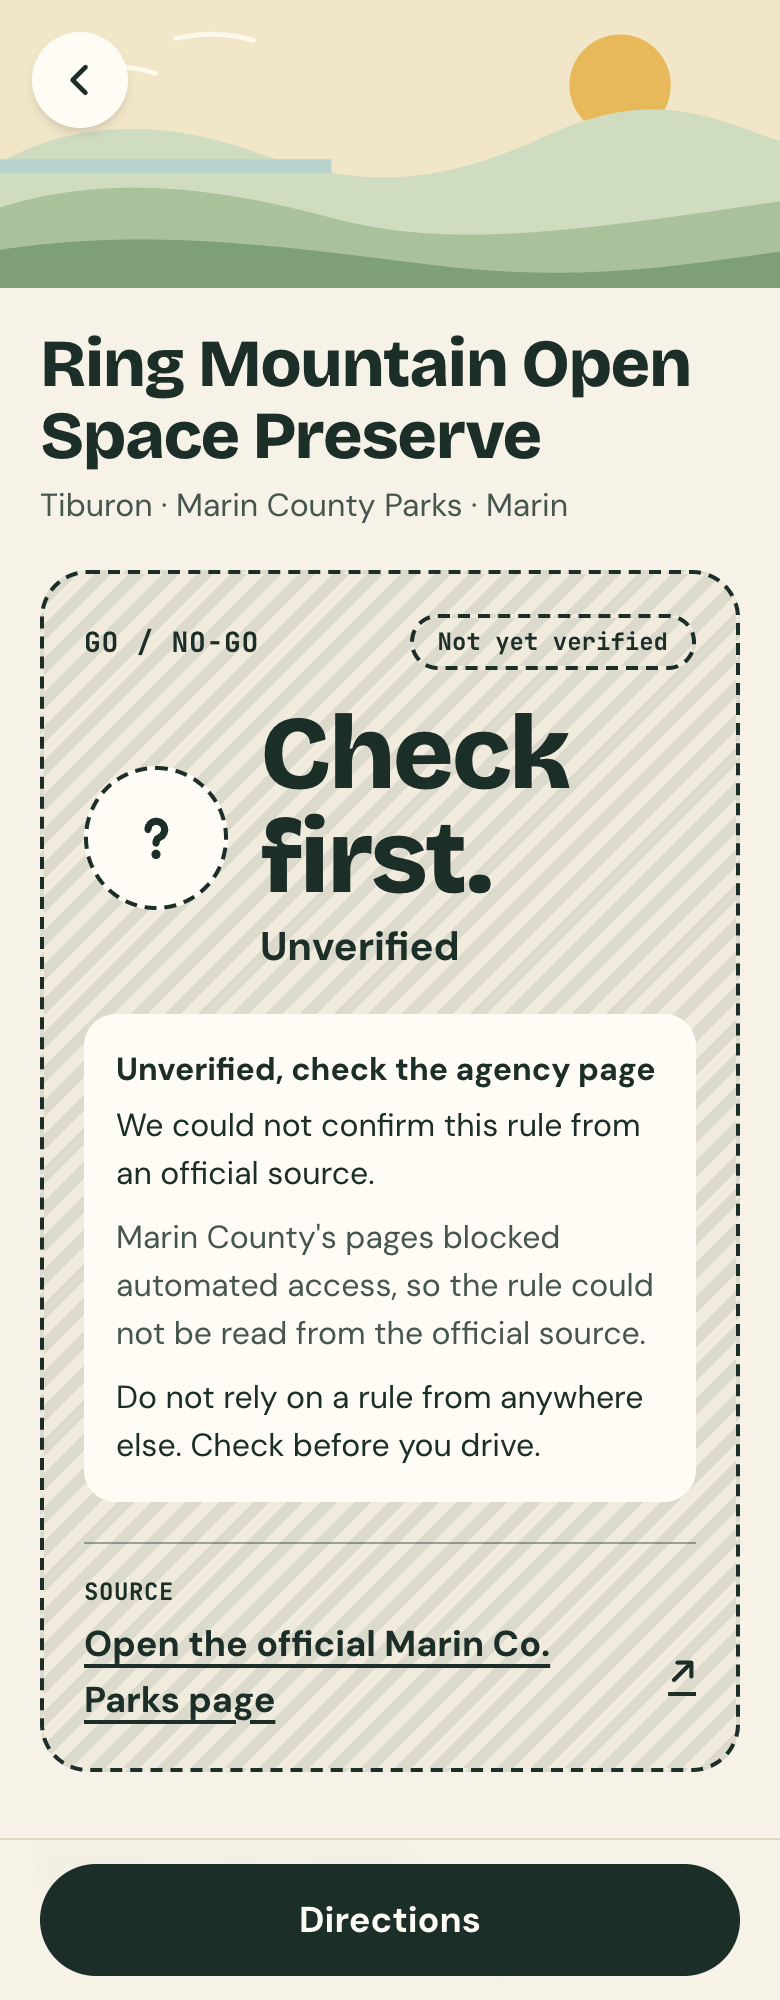
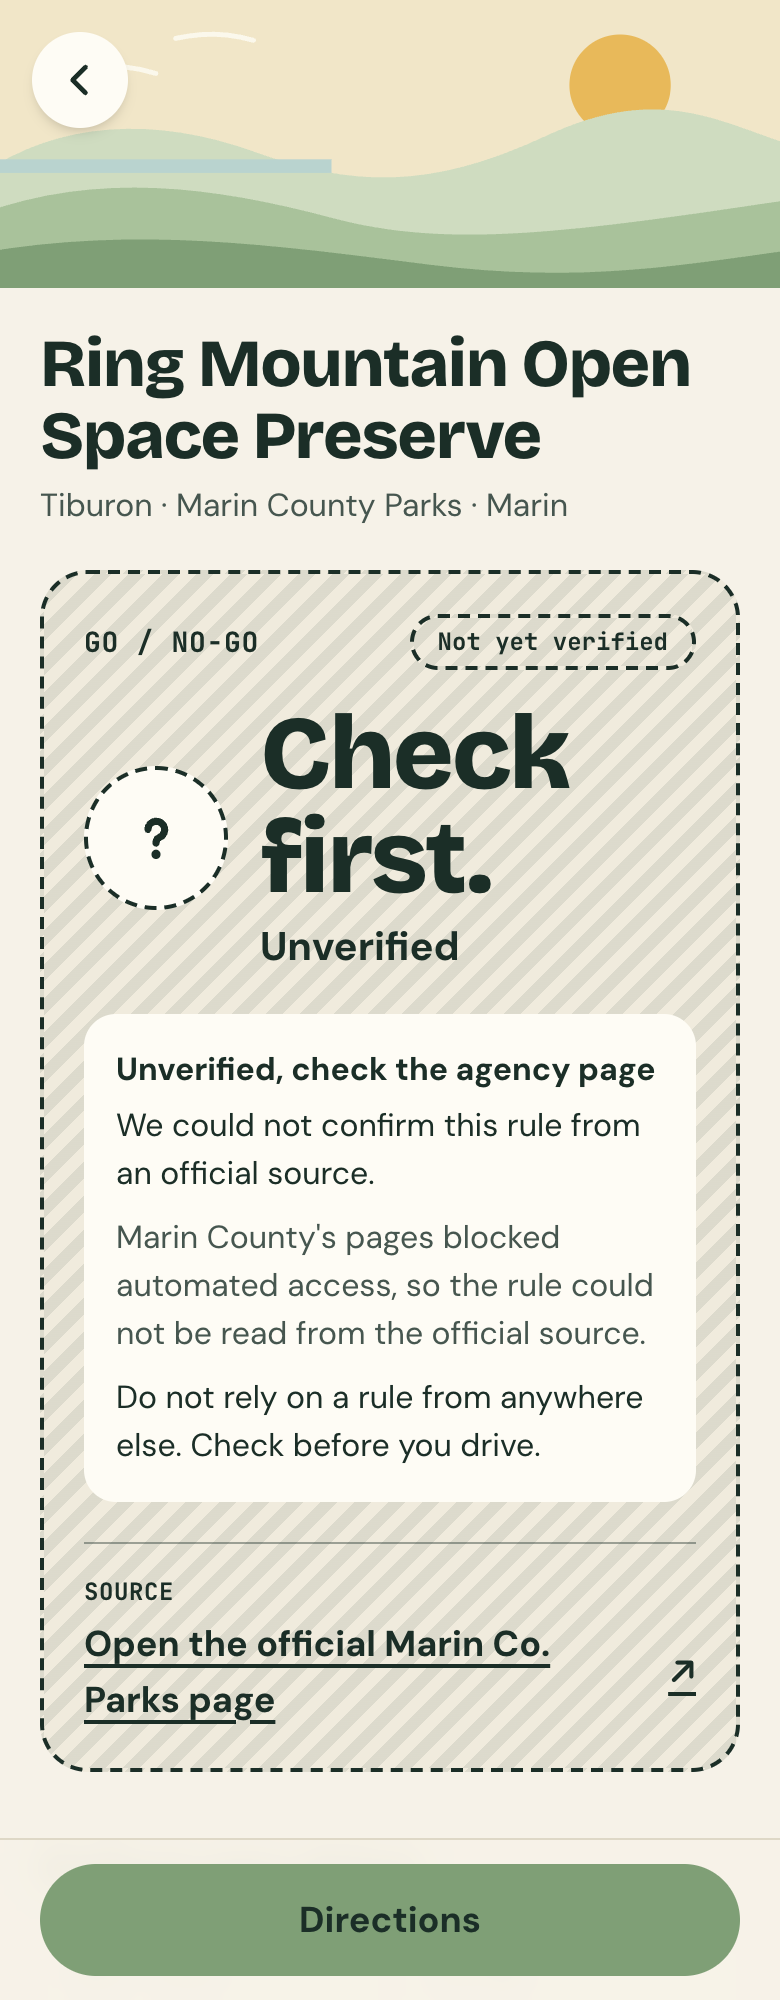
Apply the new sage button color from Figma
Adds a color-button token (#7f9f76, matching Figma's color/button) and uses it for
every primary and outline button. Labels on it are ink, not cream: cream on sage is
2.87:1 and fails AA, ink is 4.86:1. Tests guard the token and the text color.
README screenshots retaken.

Changed region(s): [[0.0308, 0.93, 0.9538, 0.992]]

diff --git a/src/lib/contrast.test.ts b/src/lib/contrast.test.ts
@@ -1,4 +1,5 @@
-import { readFileSync } from 'node:fs'
+import { readdirSync, readFileSync, statSync } from 'node:fs'
+import { join } from 'node:path'
 import { COLORS, STATUS_COLORS } from './colors.ts'
 import { contrastRatio } from './contrast.ts'
 
@@ -31,6 +32,7 @@ describe('WCAG AA contrast', () => {
     ['ink on amber (recheck stamp)', COLORS.ink, COLORS.amber],
     ['ink on amber-tint', COLORS.ink, COLORS.amberTint],
     ['ink on sand (stale stamp)', COLORS.ink, COLORS.sand],
+    ['ink on button (sage)', COLORS.ink, COLORS.button],
   ])('%s', (_n, fg, bg) => {
     expect(contrastRatio(fg, bg)).toBeGreaterThanOrEqual(AA_TEXT)
   })
@@ -45,6 +47,7 @@ describe('tokens', () => {
       ['ink', COLORS.ink],
       ['ink-soft', COLORS.inkSoft],
       ['sand', COLORS.sand],
+      ['button', COLORS.button],
       ['teal', COLORS.teal],
       ['teal-deep', COLORS.tealDeep],
       ['teal-tint', COLORS.tealTint],
@@ -55,5 +58,30 @@ describe('tokens', () => {
     for (const [name, hex] of pairs) {
       expect(css).toContain(`--color-${name}: ${hex};`)
     }
+  })
+})
+
+describe('buttons', () => {
+  test('cream text on the sage button fill would fail AA, so it must never be used', () => {
+    expect(contrastRatio(COLORS.card, COLORS.button)).toBeLessThan(4.5)
+  })
+
+  test('no component puts text-card on bg-button', () => {
+    const files: string[] = []
+    const walk = (dir: string) => {
+      for (const name of readdirSync(dir)) {
+        const full = join(dir, name)
+        if (statSync(full).isDirectory()) walk(full)
+        else if (/\.tsx$/.test(name) && !/\.test\./.test(name)) files.push(full)
+      }
+    }
+    walk('src')
+    const offenders = files.flatMap((f) =>
+      readFileSync(f, 'utf8')
+        .split('\n')
+        .map((line, i) => ({ f, i: i + 1, line }))
+        .filter(({ line }) => line.includes('bg-button') && line.includes('text-card')),
+    )
+    expect(offenders.map((o) => `${o.f}:${o.i}`)).toEqual([])
   })
 })

diff --git a/src/pages/ResetPassword.tsx b/src/pages/ResetPassword.tsx
@@ -89,7 +89,7 @@ export default function ResetPassword() {
           type="button"
           onClick={() => void confirmLink()}
           disabled={busy}
-          className="mt-6 min-h-14 w-full rounded-full bg-ink px-6 text-lg font-bold text-card disabled:opacity-60"
+          className="mt-6 min-h-14 w-full rounded-full bg-button px-6 text-lg font-bold text-ink disabled:opacity-60"
         >
           {busy ? 'Checking…' : 'Continue'}
         </button>
@@ -107,7 +107,7 @@ export default function ResetPassword() {
         </p>
         <Link
           to="/forgot-password"
-          className="mt-6 flex min-h-14 items-center justify-center rounded-full bg-ink px-6 text-lg font-bold text-card no-underline"
+          className="mt-6 flex min-h-14 items-center justify-center rounded-full bg-button px-6 text-lg font-bold text-ink no-underline"
         >
           Request a new link
         </Link>
@@ -123,7 +123,7 @@ export default function ResetPassword() {
         <button
           type="button"
           onClick={() => navigate('/', { replace: true })}
-          className="mt-6 min-h-14 w-full rounded-full bg-ink px-6 text-lg font-bold text-card"
+          className="mt-6 min-h-14 w-full rounded-full bg-button px-6 text-lg font-bold text-ink"
         >
           Continue to the app
         </button>
@@ -176,7 +176,7 @@ export default function ResetPassword() {
         <button
           type="submit"
           disabled={busy}
-          className="min-h-14 w-full rounded-full bg-ink px-6 text-lg font-bold text-card disabled:opacity-60"
+          className="min-h-14 w-full rounded-full bg-button px-6 text-lg font-bold text-ink disabled:opacity-60"
         >
           {busy ? 'Saving…' : 'Save new password'}
         </button>

diff --git a/src/pages/Admin.tsx b/src/pages/Admin.tsx
@@ -74,7 +74,7 @@ function Gate({ onUnlock }: { onUnlock: () => void }) {
           )}
           <button
             type="submit"
-            className="mt-4 min-h-14 w-full rounded-full bg-ink px-6 text-lg font-bold text-card"
+            className="mt-4 min-h-14 w-full rounded-full bg-button px-6 text-lg font-bold text-ink"
           >
             Unlock
           </button>
@@ -123,7 +123,7 @@ function Panel({
           <button
             type="button"
             onClick={onLock}
-            className="min-h-12 rounded-full border-2 border-ink px-4 font-bold"
+            className="min-h-12 rounded-full border-2 border-ink bg-button px-4 font-bold"
           >
             {lockLabel}
           </button>
@@ -196,14 +196,14 @@ function SupabaseAdmin() {
       <div className="mt-4 flex gap-3">
         <Link
           to="/"
-          className="flex min-h-12 items-center rounded-full bg-ink px-6 font-bold text-card no-underline"
+          className="flex min-h-12 items-center rounded-full bg-button px-6 font-bold text-ink no-underline"
         >
           Back to the app
         </Link>
         <button
           type="button"
           onClick={() => void signOut()}
-          className="min-h-12 rounded-full border-2 border-ink px-6 font-bold"
+          className="min-h-12 rounded-full border-2 border-ink bg-button px-6 font-bold"
         >
           Sign out
         </button>

diff --git a/src/pages/Place.tsx b/src/pages/Place.tsx
@@ -230,7 +230,7 @@ function PlaceView({ slug }: { slug: string }) {
           <button
             type="button"
             onClick={() => setReportOpen(true)}
-            className="mt-4 flex min-h-14 w-full items-center justify-center gap-2 rounded-full border-2 border-ink bg-card text-lg font-bold"
+            className="mt-4 flex min-h-14 w-full items-center justify-center gap-2 rounded-full border-2 border-ink bg-button text-lg font-bold"
           >
             <svg
               width="20"
@@ -270,7 +270,7 @@ function PlaceView({ slug }: { slug: string }) {
             href={`https://www.google.com/maps/dir/?api=1&destination=${p.lat},${p.lng}`}
             target="_blank"
             rel="noopener noreferrer"
-            className="flex min-h-14 flex-1 items-center justify-center rounded-full bg-ink px-6 text-lg font-bold text-card no-underline"
+            className="flex min-h-14 flex-1 items-center justify-center rounded-full bg-button px-6 text-lg font-bold text-ink no-underline"
           >
             Directions<span className="sr-only"> (opens in a new tab)</span>
           </a>

diff --git a/src/pages/AuthPage.tsx b/src/pages/AuthPage.tsx
@@ -91,7 +91,7 @@ export default function AuthPage({ mode }: { mode: Mode }) {
             <Link
               to="/login"
               replace
-              className="mt-6 flex min-h-14 items-center justify-center rounded-full bg-ink px-6 text-lg font-bold text-card no-underline"
+              className="mt-6 flex min-h-14 items-center justify-center rounded-full bg-button px-6 text-lg font-bold text-ink no-underline"
             >
               Go to log in
             </Link>
@@ -167,7 +167,7 @@ export default function AuthPage({ mode }: { mode: Mode }) {
               <button
                 type="submit"
                 disabled={busy}
-                className="min-h-14 w-full rounded-full bg-ink px-6 text-lg font-bold text-card disabled:opacity-60"
+                className="min-h-14 w-full rounded-full bg-button px-6 text-lg font-bold text-ink disabled:opacity-60"
               >
                 {busy ? copy.busy : copy.submit}
               </button>

diff --git a/src/components/ReportSheet.tsx b/src/components/ReportSheet.tsx
@@ -96,7 +96,7 @@ export default function ReportSheet({ place, open, onClose, onSubmitted }: Props
             <button
               type="button"
               onClick={onClose}
-              className="mt-6 min-h-14 w-full rounded-full bg-ink px-6 text-lg font-bold text-card"
+              className="mt-6 min-h-14 w-full rounded-full bg-button px-6 text-lg font-bold text-ink"
             >
               Done
             </button>
@@ -194,7 +194,7 @@ export default function ReportSheet({ place, open, onClose, onSubmitted }: Props
             <button
               type="submit"
               disabled={phase === 'sending'}
-              className="mt-5 min-h-14 w-full rounded-full bg-ink px-6 text-lg font-bold text-card disabled:opacity-60"
+              className="mt-5 min-h-14 w-full rounded-full bg-button px-6 text-lg font-bold text-ink disabled:opacity-60"
             >
               {phase === 'sending' ? 'Sending…' : 'Send report'}
             </button>

diff --git a/src/pages/ForgotPassword.tsx b/src/pages/ForgotPassword.tsx
@@ -48,7 +48,7 @@ export default function ForgotPassword() {
           </p>
           <Link
             to="/login"
-            className="mt-6 flex min-h-14 items-center justify-center rounded-full bg-ink px-6 text-lg font-bold text-card no-underline"
+            className="mt-6 flex min-h-14 items-center justify-center rounded-full bg-button px-6 text-lg font-bold text-ink no-underline"
           >
             Back to log in
           </Link>
@@ -89,7 +89,7 @@ export default function ForgotPassword() {
             <button
               type="submit"
               disabled={busy || !enabled}
-              className="min-h-14 w-full rounded-full bg-ink px-6 text-lg font-bold text-card disabled:opacity-60"
+              className="min-h-14 w-full rounded-full bg-button px-6 text-lg font-bold text-ink disabled:opacity-60"
             >
               {busy ? 'Sending…' : 'Send reset link'}
             </button>

diff --git a/src/components/FilterSheet.tsx b/src/components/FilterSheet.tsx
@@ -180,14 +180,14 @@ export default function FilterSheet({
           <button
             type="button"
             onClick={() => onChange({ ...EMPTY_FILTERS, q: filters.q }, 'clear')}
-            className="min-h-14 rounded-full border-2 border-ink px-6 text-base font-bold"
+            className="min-h-14 rounded-full border-2 border-ink bg-button px-6 text-base font-bold"
           >
             Clear all
           </button>
           <button
             type="button"
             onClick={onClose}
-            className="min-h-14 flex-1 rounded-full bg-ink px-6 text-base font-bold text-card"
+            className="min-h-14 flex-1 rounded-full bg-button px-6 text-base font-bold text-ink"
           >
             Show {resultCount} {resultCount === 1 ? 'place' : 'places'}
           </button>

diff --git a/src/pages/admin/EventsTab.tsx b/src/pages/admin/EventsTab.tsx
@@ -52,14 +52,14 @@ export default function EventsTab() {
               'application/json',
             )
           }
-          className="min-h-12 rounded-full border-2 border-ink px-5 font-bold"
+          className="min-h-12 rounded-full border-2 border-ink bg-button px-5 font-bold"
         >
           Export JSON
         </button>
         <button
           type="button"
           onClick={() => download('pawprint-events.csv', eventsToCSV(events), 'text/csv')}
-          className="min-h-12 rounded-full border-2 border-ink px-5 font-bold"
+          className="min-h-12 rounded-full border-2 border-ink bg-button px-5 font-bold"
         >
           Export CSV
         </button>

diff --git a/src/pages/NotFound.tsx b/src/pages/NotFound.tsx
@@ -7,7 +7,7 @@ export default function NotFound() {
       <p className="mt-2 text-ink-soft">That page does not exist yet.</p>
       <Link
         to="/"
-        className="mt-6 inline-flex min-h-12 items-center rounded-full bg-ink px-6 font-bold text-card no-underline"
+        className="mt-6 inline-flex min-h-12 items-center rounded-full bg-button px-6 font-bold text-ink no-underline"
       >
         Back to the map
       </Link>

diff --git a/src/components/AccountBar.tsx b/src/components/AccountBar.tsx
@@ -14,7 +14,7 @@ export default function AccountBar({ className = '' }: { className?: string }) {
       <button
         type="button"
         onClick={() => void signOut()}
-        className="min-h-11 shrink-0 rounded-full border-2 border-ink px-4 font-bold text-ink"
+        className="min-h-11 shrink-0 rounded-full border-2 border-ink bg-button px-4 font-bold text-ink"
       >
         Sign out
       </button>

diff --git a/src/pages/admin/PicksTab.tsx b/src/pages/admin/PicksTab.tsx
@@ -174,7 +174,7 @@ export default function PicksTab({ places, initialWeek, initialPicks }: Props) {
       <button
         type="button"
         onClick={() => void save()}
-        className="mt-5 min-h-14 w-full rounded-full bg-ink px-6 text-lg font-bold text-card"
+        className="mt-5 min-h-14 w-full rounded-full bg-button px-6 text-lg font-bold text-ink"
       >
         Save picks
       </button>
